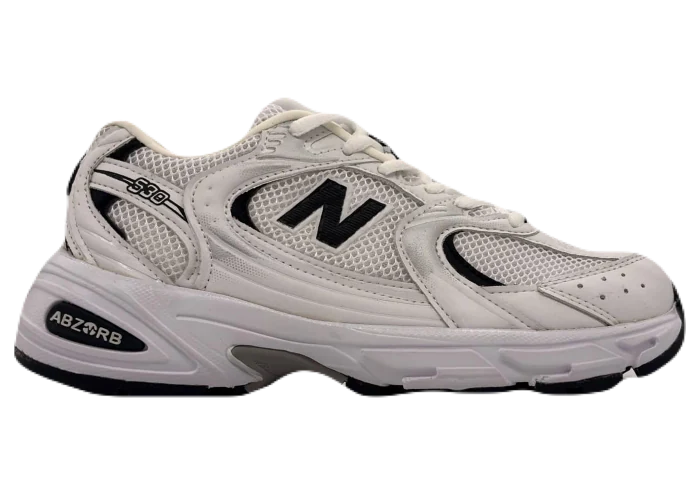
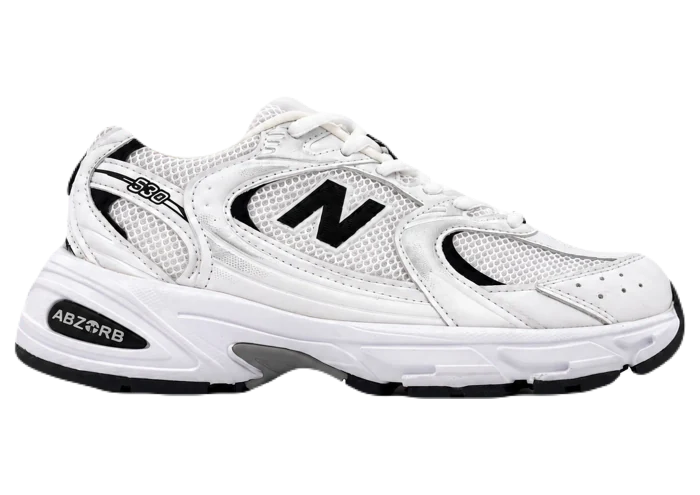
The New Balance tile wears the shot the shop sent, and the band is «پیشنهاد ویژه»
Two asks.

**«تو پرفروشترینها عکس نیوبالانس بشه این.»** The white 530 the shop sent
replaces `theme/hero-src/nb530-white.png`, and the cut-out on the tile is
rebuilt from it by `make-hero-photos.js` rather than dropped in as supplied —
that script trims each shot to its own opaque box and lays it on the one 1400×990
canvas, which is what keeps the six tiles reading as one set instead of six
crops. Measured on the way in: a real cut-out, 20% opaque, content box 1018×459
against the old file's 1164×521 — the same side profile at the same proportions,
so nothing about the row's rhythm moves.

It is a file and not a row, so it needs no migration and no placement: both the
live shop's «رنگ سفید مشکی» slug and the seeded `new-balance-530` already point
at this name. Rendered the band and read every tile back — all six load, both
New Balance tiles draw the new photograph, no console error.

**«اون قسمت پیشنهاد امروز هم بشه پیشنهاد ویژه.»** The badge over the countdown,
in both copies of the page.

The deadline underneath is unchanged and stays the end of today when nothing
else sets one — but two comments justified that default by the band's own name,
so they would have been quietly wrong from this commit on. They now say what is
actually true: the clock re-arms itself a day on when it runs out, and a
deadline a day away is what matches that. The word is the same length in both,
so the copy column does not move.
[…]

diff --git a/theme/make-rtl-page.js b/theme/make-rtl-page.js
@@ -1694,7 +1694,11 @@ const [DAILY_SHOT, DAILY_NAME, DAILY_PRICE, DAILY_STOCK] = LADDER_DEALS[2];
 const DAILY_DEAL =
   '<div class="vp-daily-deal">\n' +
   '                <div class="vp-daily-deal-copy">\n' +
-  '                    <span class="vp-daily-deal-badge">پیشنهاد امروز</span>\n' +
+  // «اون قسمت پیشنهاد امروز هم بشه پیشنهاد ویژه». The deadline underneath is
+  // still the end of today when nothing else sets one, and the clock re-arms
+  // itself on a fresh day — the band is simply no longer named after the day.
+  // Kept in step with `home/daily-deal.blade.php`, or check-parity.js fails.
+  '                    <span class="vp-daily-deal-badge">پیشنهاد ویژه</span>\n' +
   // Broken where the client broke it in their own message, not left to
   // wrap on its own — the copy column is 521 wide and the line fits on one
   // at every desktop width, so without the <br> it would never stack.
@@ -1864,7 +1868,7 @@ const DICT = {
   "Women's Collections": 'کالکشن زنانه',
   "Men's Collections": 'کالکشن مردانه',
   'Best Seller Products': 'پرفروشترینها',
-  "Today's Best Deals": 'پیشنهاد امروز',
+  "Today's Best Deals": 'پیشنهاد ویژه',
   'Feature Products': 'محصولات منتخب',
   'Membership Offer': 'باشگاه مشتریان',
   'New Trend Edition': 'کالکشن جدید',
@@ -4287,7 +4291,7 @@ html = html.replace('</body>',
   '         * That fixes every fresh load; it does not fix the tab somebody left\n' +
   '         * open. The template\'s widget clears its own interval the moment the\n' +
   '         * deadline passes and marks the list `expired`, so at midnight the\n' +
-  '         * clock simply stops — and a shop that says «پیشنهاد امروز» over a\n' +
+  '         * clock simply stops — and a shop that says «پیشنهاد ویژه» over a\n' +
   '         * dead clock is worse than one that says nothing.\n' +
   '         *\n' +
   '         * So: watch for that class, push the deadline on by whole days until\n' +

diff --git a/download-version/index.html b/download-version/index.html
@@ -992,7 +992,7 @@ Product Area
         <div class="container th-container vp-daily-deal-wrap">
             <div class="vp-daily-deal">
                 <div class="vp-daily-deal-copy">
-                    <span class="vp-daily-deal-badge">پیشنهاد امروز</span>
+                    <span class="vp-daily-deal-badge">پیشنهاد ویژه</span>
                     <h2 class="vp-daily-deal-title">قبل از<br>تمام شدن بخرش!</h2>
                     <p class="vp-daily-deal-sub">عجله کن؛ موجودی محدوده.</p>
                     <a href="shop-details.html" class="vp-daily-deal-cta">خرید کنید<i class="fa-solid fa-arrow-right" aria-hidden="true"></i></a>
@@ -2355,7 +2355,7 @@ Brand Area
          * That fixes every fresh load; it does not fix the tab somebody left
          * open. The template's widget clears its own interval the moment the
          * deadline passes and marks the list `expired`, so at midnight the
-         * clock simply stops — and a shop that says «پیشنهاد امروز» over a
+         * clock simply stops — and a shop that says «پیشنهاد ویژه» over a
          * dead clock is worse than one that says nothing.
          *
          * So: watch for that class, push the deadline on by whole days until

diff --git a/download-version/shoe-shop-rtl.html b/download-version/shoe-shop-rtl.html
@@ -992,7 +992,7 @@ Product Area
         <div class="container th-container vp-daily-deal-wrap">
             <div class="vp-daily-deal">
                 <div class="vp-daily-deal-copy">
-                    <span class="vp-daily-deal-badge">پیشنهاد امروز</span>
+                    <span class="vp-daily-deal-badge">پیشنهاد ویژه</span>
                     <h2 class="vp-daily-deal-title">قبل از<br>تمام شدن بخرش!</h2>
                     <p class="vp-daily-deal-sub">عجله کن؛ موجودی محدوده.</p>
                     <a href="shop-details.html" class="vp-daily-deal-cta">خرید کنید<i class="fa-solid fa-arrow-right" aria-hidden="true"></i></a>
@@ -2355,7 +2355,7 @@ Brand Area
          * That fixes every fresh load; it does not fix the tab somebody left
          * open. The template's widget clears its own interval the moment the
          * deadline passes and marks the list `expired`, so at midnight the
-         * clock simply stops — and a shop that says «پیشنهاد امروز» over a
+         * clock simply stops — and a shop that says «پیشنهاد ویژه» over a
          * dead clock is worse than one that says nothing.
          *
          * So: watch for that class, push the deadline on by whole days until

diff --git a/storefront/resources/views/home/daily-deal.blade.php b/storefront/resources/views/home/daily-deal.blade.php
@@ -22,7 +22,13 @@
         <div class="container th-container vp-daily-deal-wrap">
             <div class="vp-daily-deal">
                 <div class="vp-daily-deal-copy">
-                    <span class="vp-daily-deal-badge">پیشنهاد امروز</span>
+                    {{-- «اون قسمت پیشنهاد امروز هم بشه پیشنهاد ویژه». The
+                         deadline underneath is still the end of today when
+                         nothing else sets one, and the clock re-arms itself on
+                         a fresh day — so what the band offers is still today's,
+                         it is simply no longer named after the day. Kept in
+                         step with theme/make-rtl-page.js, or parity fails. --}}
+                    <span class="vp-daily-deal-badge">پیشنهاد ویژه</span>
                     <h2 class="vp-daily-deal-title">قبل از<br>تمام شدن بخرش!</h2>
                     <p class="vp-daily-deal-sub">عجله کن؛ موجودی محدوده.</p>
                     {{-- The arrow stays in the markup and is switched off below

diff --git a/storefront/config/storefront.php b/storefront/config/storefront.php
@@ -455,8 +455,11 @@ return [
          | page draws it at whatever «now» happens to be. It is the same shape
          | as the stepped sale's seeded window — see «the stepped sale has no
          | end date» in CLAUDE.md — and the same answer: null, and the code
-         | works out the end of today instead, which is what «پیشنهاد امروز»
-         | means and cannot expire.
+         | works out the end of today instead, which cannot expire. The band is
+         | «پیشنهاد ویژه» now rather than «پیشنهاد امروز», so the end of today
+         | is no longer what its own name says; it stays the default because
+         | the clock re-arms itself on a fresh day when it runs out, and a
+         | deadline a day away is the one that matches that.
          |
          | Set a date here (or an end on the offer itself, which wins) only for
          | a campaign that genuinely stops at a moment somebody chose.

diff --git a/storefront/app/Http/Controllers/HomeController.php b/storefront/app/Http/Controllers/HomeController.php
@@ -490,8 +490,10 @@ class HomeController extends Controller
      * So the order is: the offer's own end, if the shop set one — a real
      * campaign with a real deadline, and the countdown should say so. Then an
      * explicit date in config, for a campaign somebody wants to pin. And
-     * failing both, the end of today, which is what «پیشنهاد امروز» means and
-     * is never in the past.
+     * failing both, the end of today, which is never in the past. The band is
+     * «پیشنهاد ویژه» now rather than «پیشنهاد امروز», so that is no longer what
+     * its name says; it stays the default because the page re-arms the clock a
+     * day on when it runs out, and a deadline a day away is what matches that.
      *
      * ISO 8601 with the offset on it, because the browser parses this string
      * with `new Date()` and a bare `m/d/Y` is read as *the visitor's* midnight.

diff --git a/storefront/resources/views/partials/scripts.blade.php b/storefront/resources/views/partials/scripts.blade.php
@@ -528,7 +528,7 @@
          * That fixes every fresh load; it does not fix the tab somebody left
          * open. The template's widget clears its own interval the moment the
          * deadline passes and marks the list `expired`, so at midnight the
-         * clock simply stops — and a shop that says «پیشنهاد امروز» over a
+         * clock simply stops — and a shop that says «پیشنهاد ویژه» over a
          * dead clock is worse than one that says nothing.
          *
          * So: watch for that class, push the deadline on by whole days until
